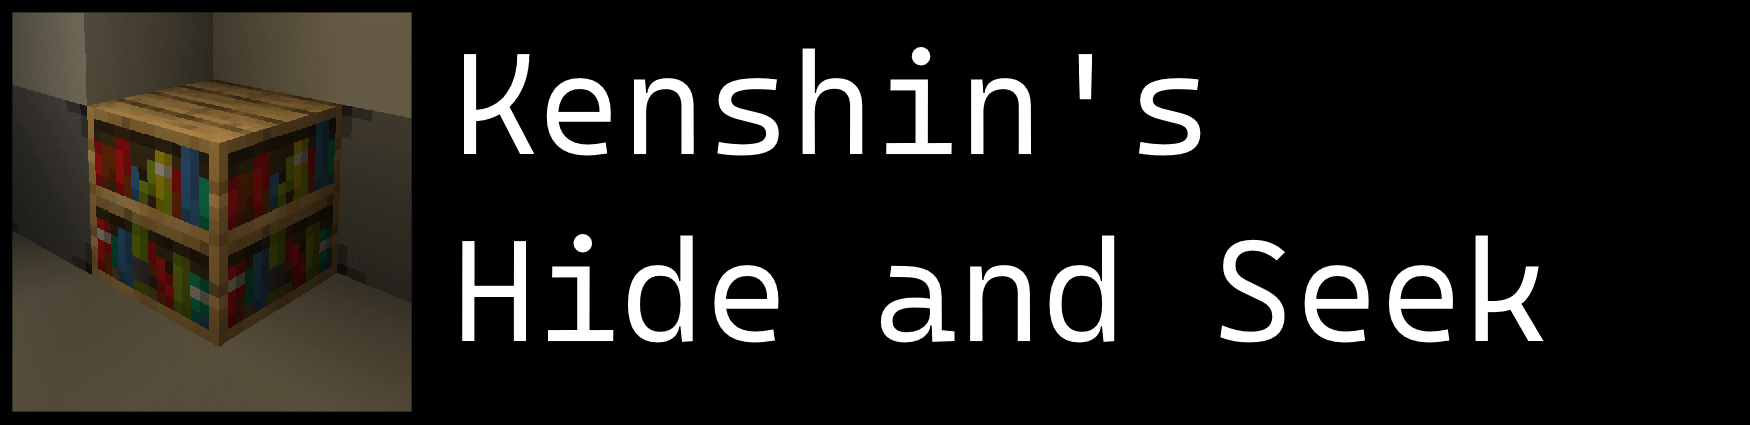
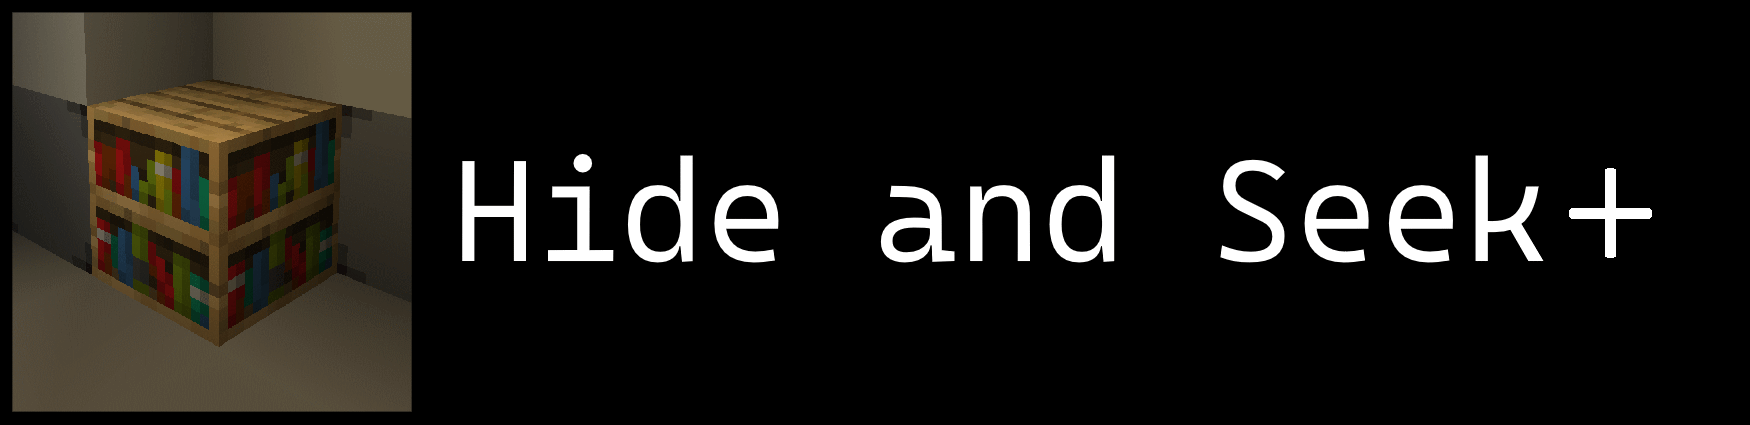
Updated resources

diff --git a/README.md b/README.md
@@ -5,18 +5,27 @@ An updated and maintained version of kenshinshideandseek
 You can find the original
 [here](https://g.freya.cat/freya/kenshinshideandseek)
 
+[Documentation](https://computerwhz.gitbook.io/hide-and-seek-plus/)
+-----------
+
+
+Further support be found at https://discord.gg/8J6bF9qAuv
+
 Download
 -----------
 
-This fork is not yet released you can download the original plugin at the following sites
+A pre-release version of this plugin is released you can get it from the following places
 
-- [Bukkit](https://dev.bukkit.org/projects/kenshins-hide-and-seek)
-- [Spiggot](https://www.spigotmc.org/resources/kenshins-hide-and-seek.95306/)
-- [Hanger](https://hangar.papermc.io/kenshineto/KenshinsHideAndSeek)
-- [Modrinth](https://modrinth.com/plugin/kenshins-hide-and-seek)
+- [Github](https://github.com/Computerwhz/Hide-And-Seek-Plus/releases)
+- [Spigot](https://www.spigotmc.org/resources/hideandseekplus.128836)
+- [Hanger](https://hangar.papermc.io/Computerwhz/HideAndSeekPlus)
+- [Modrinth](https://modrinth.com/project/hideandseekplus)
 
+Changes Summary
+-----------
 
-
+- Fixed the F3+B hitboxes cheat
+- Updated the start item admin configuration options 
 
 Credit
 -----------
@@ -35,7 +44,6 @@ License
 -----------
 
 This project is licensed under the GPL v3 license.
-
 
 Compilation
 -----------
